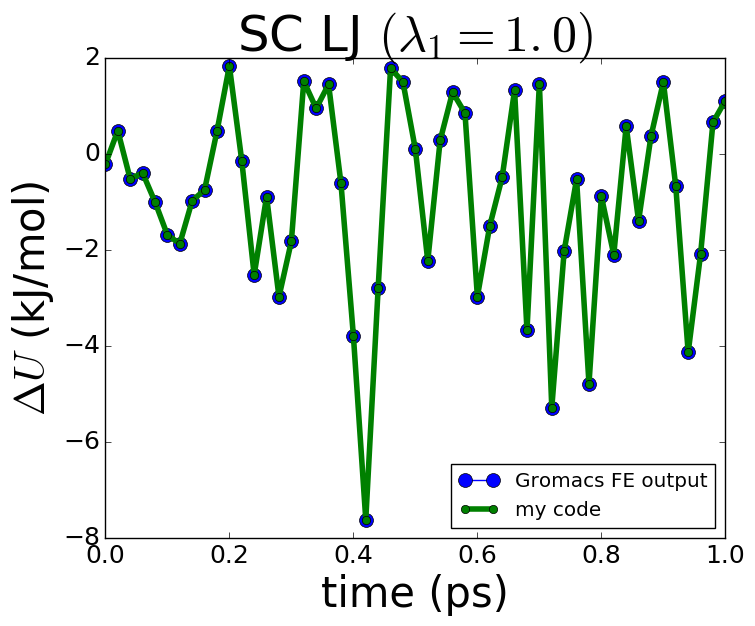
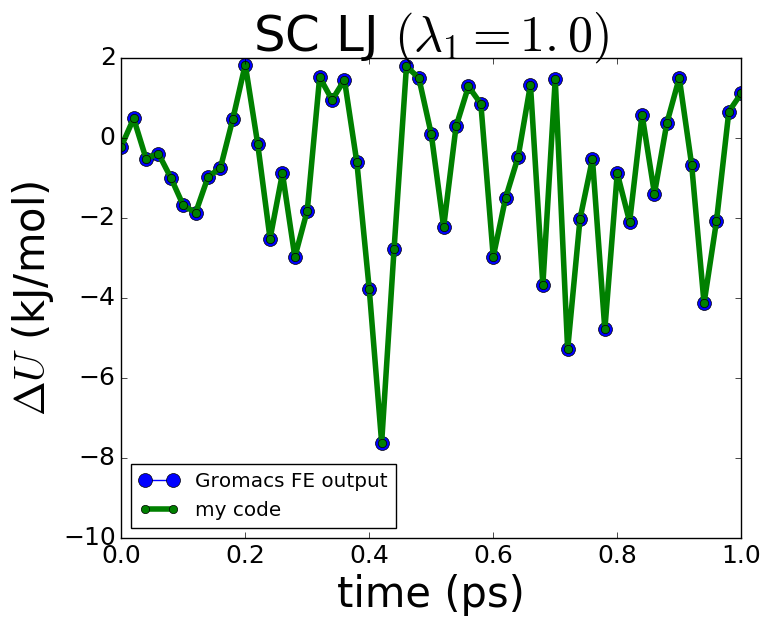
prep for res_single_3 does its own traj

diff --git a/plot.py b/plot.py
@@ -12,6 +12,7 @@ for i, lmbda in enumerate(for_lmbdas):
     plt.xlabel('time (ps)')
     plt.ylabel(r'$\Delta U$ (kJ/mol)')
     plt.title(r'SC LJ $(\lambda_1={})$'.format(lmbda))
+    #plt.ylim(-10,2)
     #plt.show()
     plt.savefig(fname.format(int(lmbda*10), '.png'), bbox_inches='tight')
 
@@ -29,3 +30,4 @@ for i, lmbda in enumerate(for_lmbdas):
     plt.ylabel(r'$\Delta U$ (kJ/mol)')
     plt.title(r'SC LJ $(\lambda_1={})$'.format(lmbda))
     plt.savefig(fname.format(int(lmbda*10), '_abs_diff.png'), bbox_inches='tight')
+    #plt.show()
